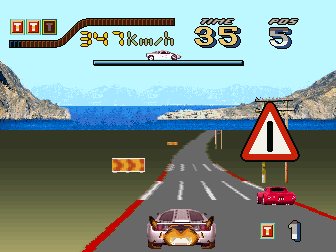
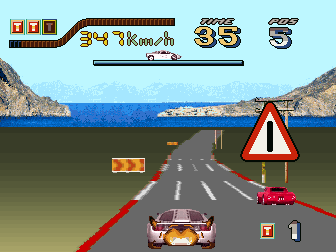
docs: remake the family's GIFs and after images without the row bias
The eleven GIFs of Wheels & Fire, Power Ball and Kong Ball and the three
Wheels & Fire before/after "after" images were drawn by the driver that
still read the background three rows ahead. Their stretches were found
by matching each published file against a frame series of that driver
(the race GIF comes back pixel-identical from its recipe), and
remake-media.sh now keeps the recipe, so the next driver change remakes
them instead of leaving pictures the driver no longer draws. The pairs'
measured figures and captions follow the new images.

diff --git a/README.md b/README.md
@@ -60,7 +60,7 @@ still matches the caption.
 <td align="center"><b>here</b></td>
 </tr></table>
 
-The original driver's signature failure: it draws the ROAD A SECOND TIME where the sky belongs, lane markings and all, with the real road below it. 82.8% of the pixels change. (`wheelfir`, frame 2300)
+The original driver's signature failure: it draws the ROAD A SECOND TIME where the sky belongs, lane markings and all, with the real road below it. 82.4% of the pixels change. (`wheelfir`, frame 2300)
 
 <table><tr>
 <td width="50%"><img src="docs/img/before-after/wheelfir-cars-before.png" alt="Wheels & Fire: the two Porsches of the presentation, MAME 0.288"></td>
@@ -70,7 +70,7 @@ The original driver's signature failure: it draws the ROAD A SECOND TIME where t
 <td align="center"><b>here</b></td>
 </tr></table>
 
-Of the two Porsches in the presentation the original driver draws only one, surrounded by leftovers of the previous screen. 66.8% of the pixels change. (`wheelfir`, frame 600)
+Of the two Porsches in the presentation the original driver draws only one, surrounded by leftovers of the previous screen. 64.4% of the pixels change. (`wheelfir`, frame 600)
 
 <table><tr>
 <td width="50%"><img src="docs/img/before-after/wheelfir-sky-before.png" alt="Wheels & Fire: the sky during the race, MAME 0.288"></td>
@@ -80,7 +80,7 @@ Of the two Porsches in the presentation the original driver draws only one, surr
 <td align="center"><b>here</b></td>
 </tr></table>
 
-In-race, the original driver leaves the sky unpainted: no horizon, no mountain, no sea, none of the roadside signs. 76.4% of the pixels change. (`wheelfir`, frame 1800)
+In-race, the original driver leaves the sky unpainted: no horizon, no mountain, no sea, none of the roadside signs. 76.3% of the pixels change. (`wheelfir`, frame 1800)
 
 <table><tr>
 <td width="50%"><img src="docs/img/before-after/kongball-title-before.png" alt="Kong Ball: the title screen, MAME 0.288"></td>

diff --git a/scripts/README.md b/scripts/README.md
@@ -44,6 +44,7 @@ Python runs with `uv run scripts/<name>.py`, and every MAME launch goes through 
 |--------|--------------|
 | `frame-series.sh <set> <from> <to> <dir>` | consecutive frames of one set |
 | `gif.sh` | a stretch of frames into a GIF at real time, for the documentation |
+| `remake-media.sh` | the recipe of the Wheels & Fire family's GIFs and before/after "after" images: remakes them from the current binary |
 | `family-captures.py` | the documentation's stills of the seven sets (titles, attract and race frames, as its manifest lists them) |
 | `before-after.py` | measures a before/after pair: how much changes and where |
 | `make-readme-images.py` | the light images of Radical Enduro's page |
